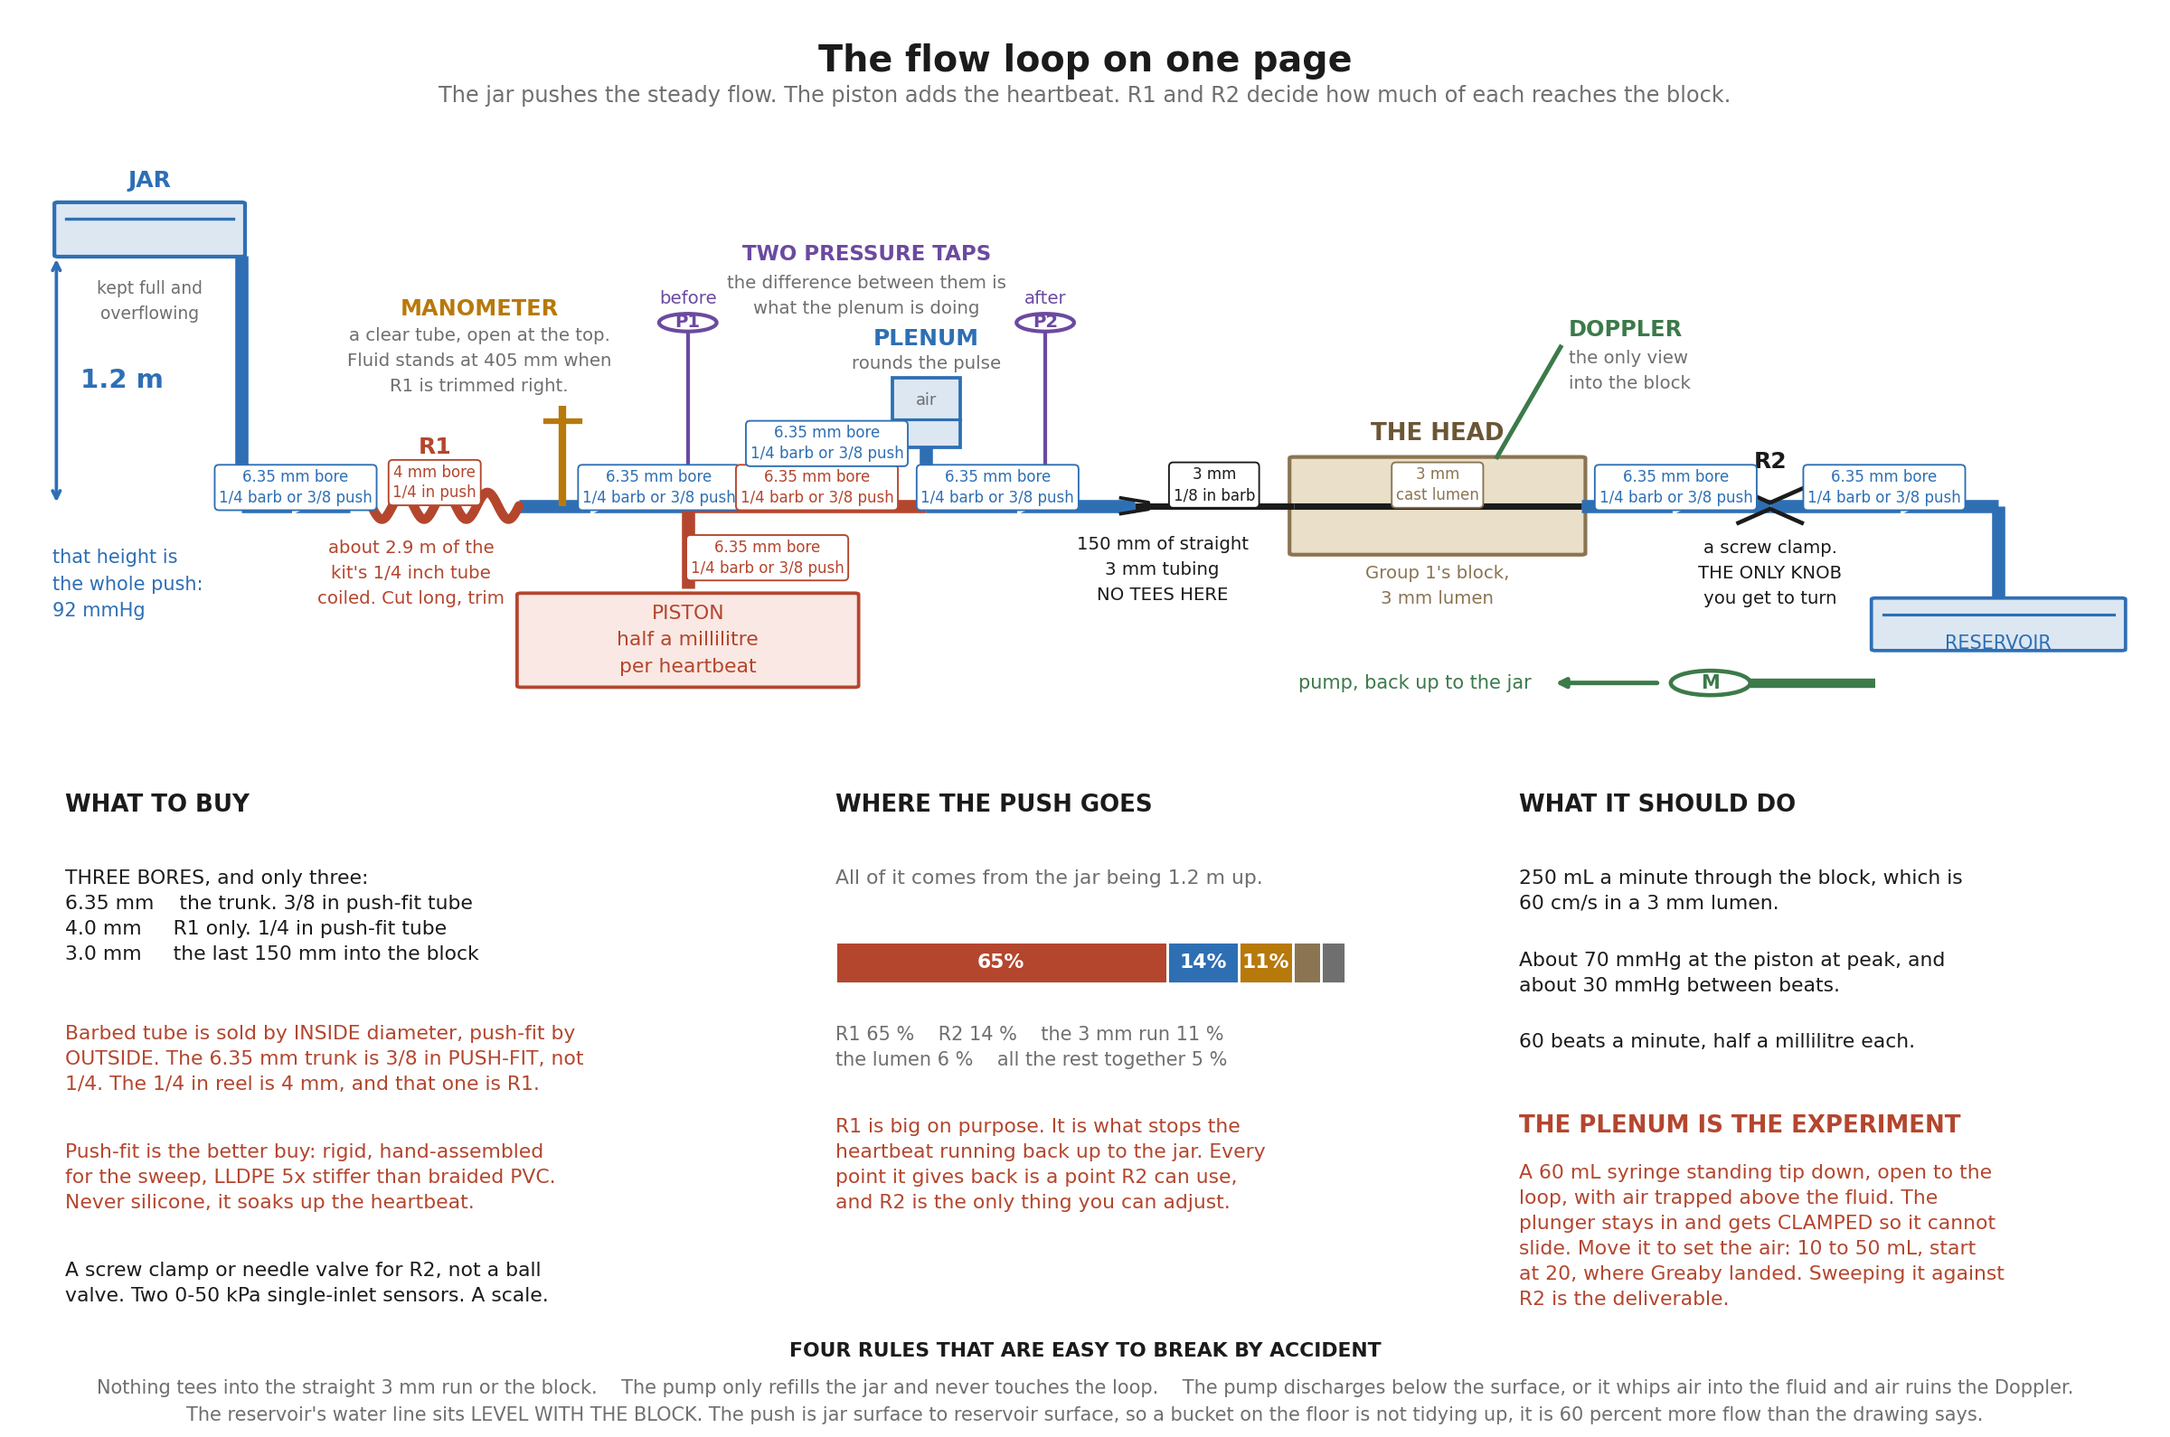
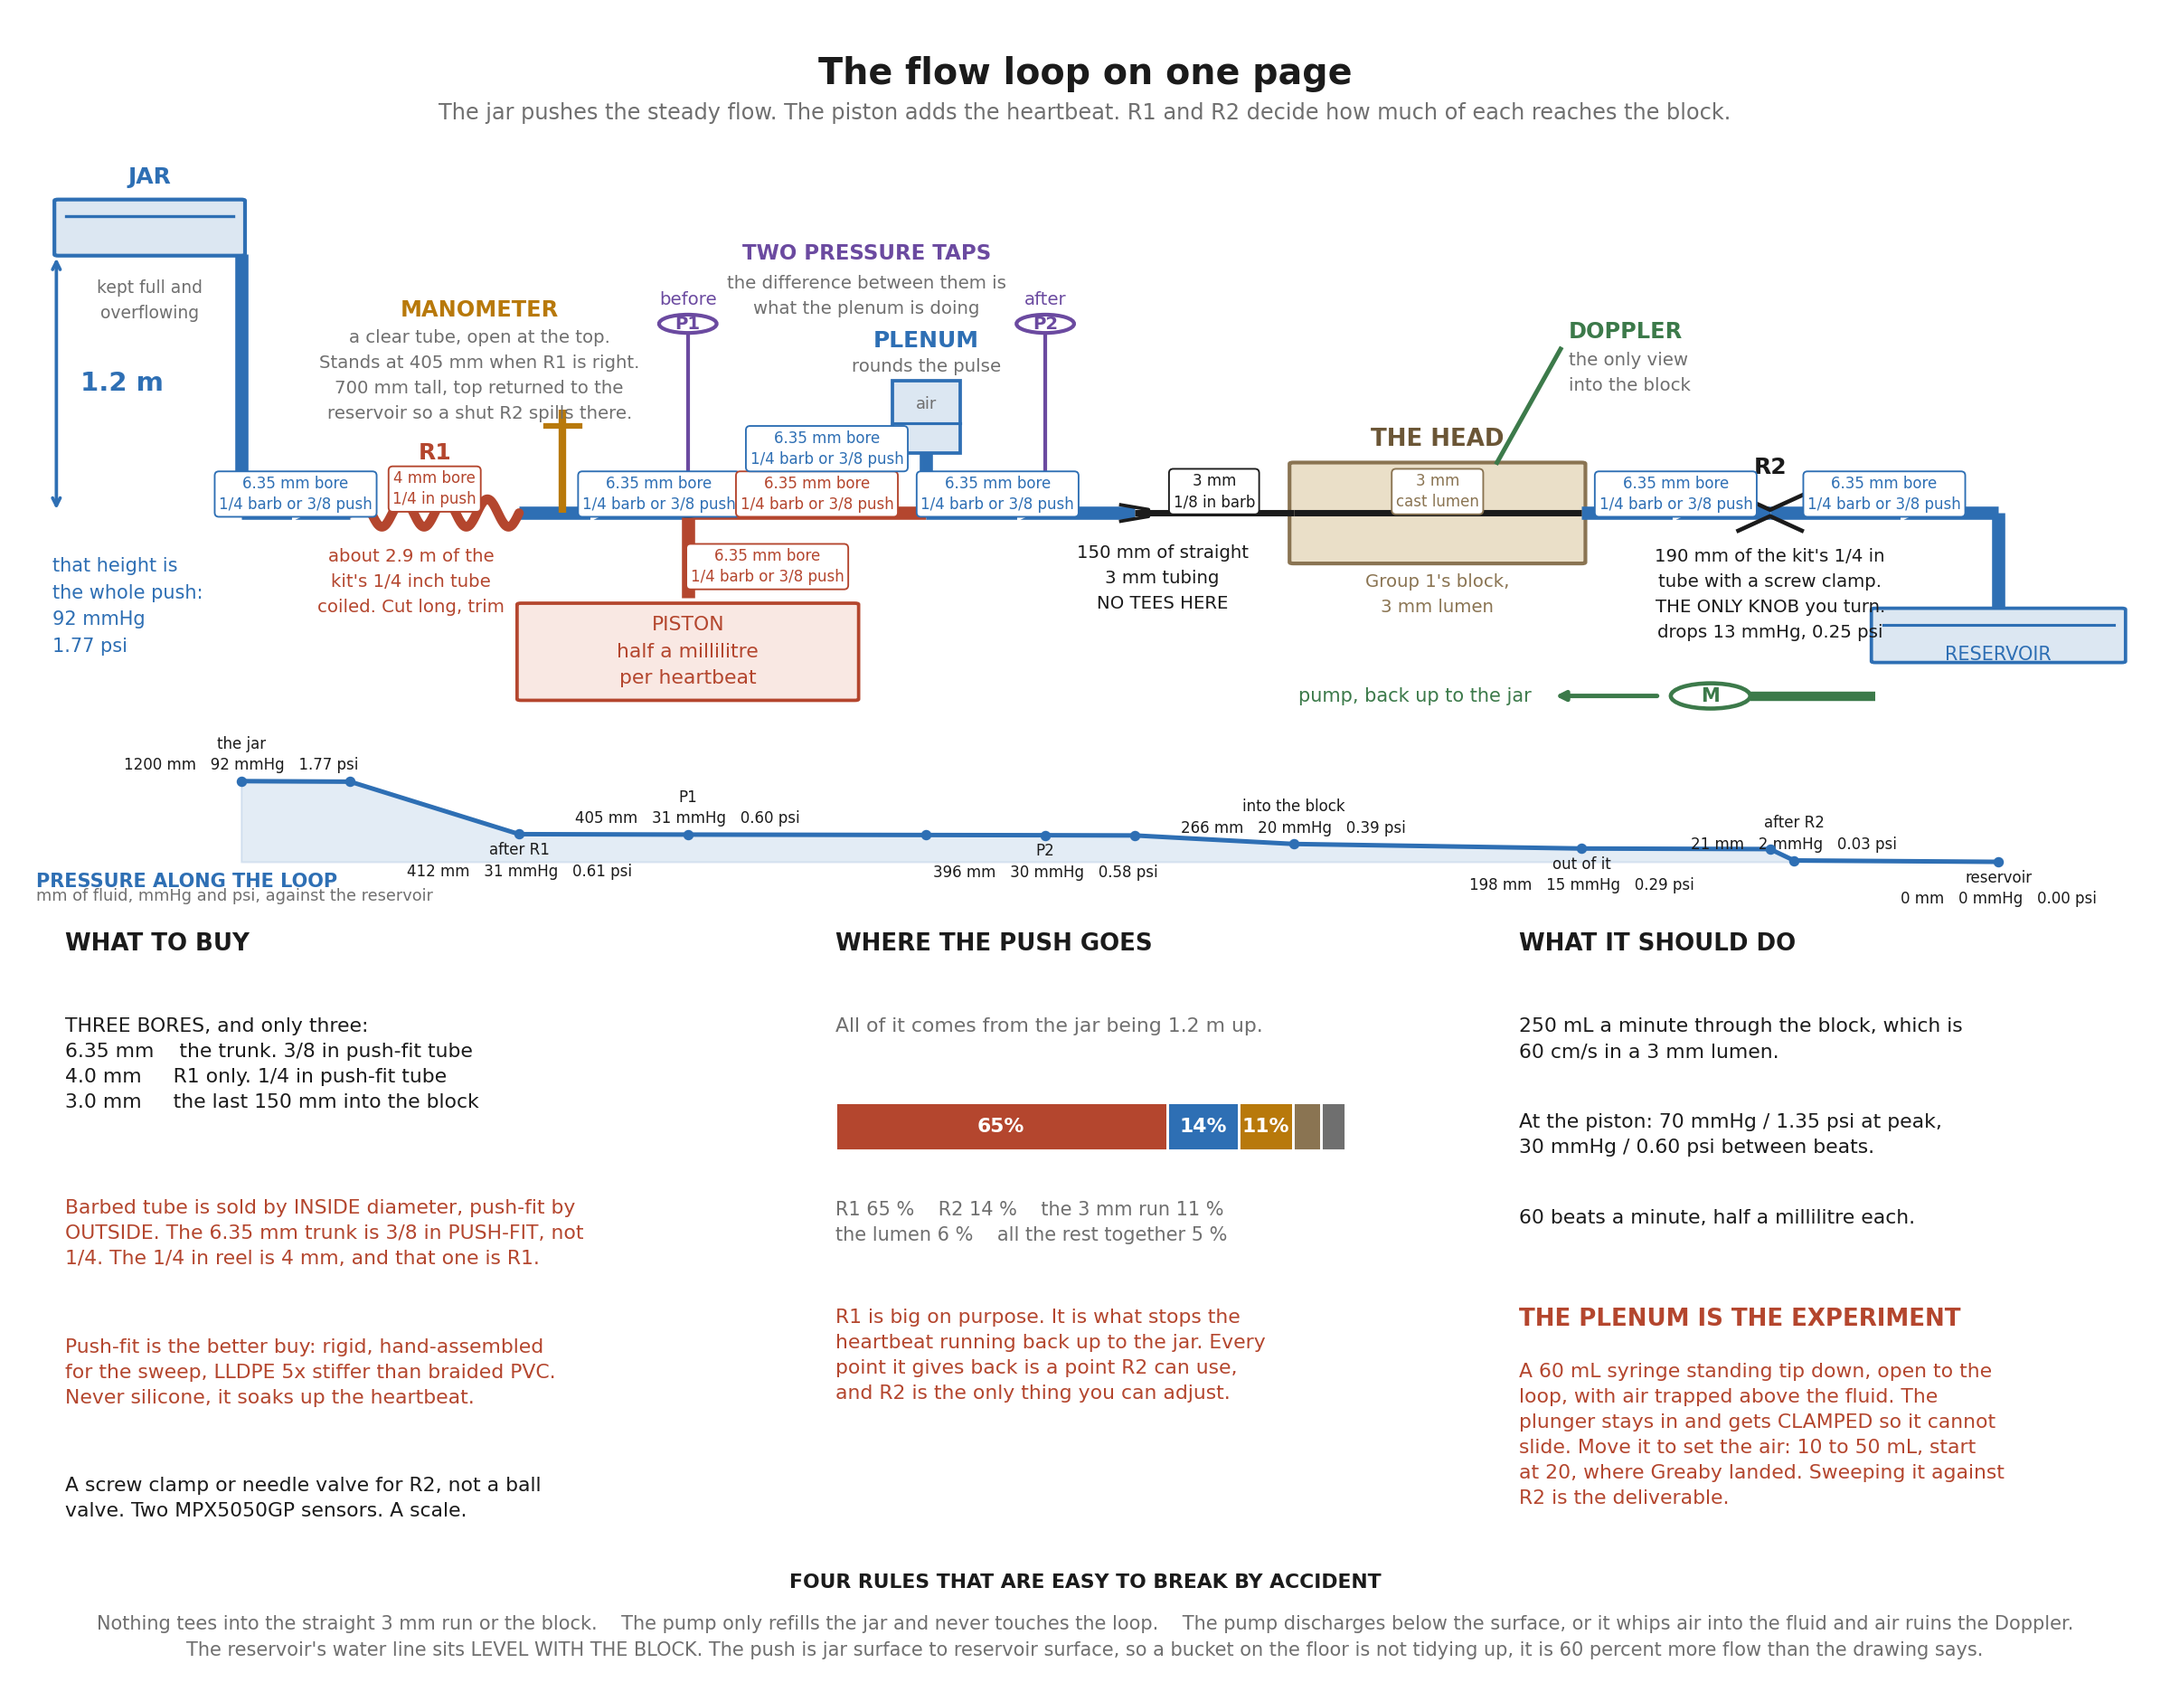
One pager: a pressure profile strip, every station in mmHg and psi
Adds a strip under the schematic plotting head against position, with every
station labelled in all three units at once. It goes on its own band rather
than on the pipe, because each run already carries a bore badge and a second
badge on the same line would make the drawing unreadable.

  the jar          1200 mm    92 mmHg   1.77 psi
  after R1          412 mm    31 mmHg   0.61 psi
  P1                405 mm    31 mmHg   0.60 psi
  P2                396 mm    30 mmHg   0.58 psi
  into the block    266 mm    20 mmHg   0.39 psi
  out of it         198 mm    15 mmHg   0.29 psi
  after R2           21 mm     2 mmHg   0.03 psi
  reservoir           0 mm     0 mmHg   0.00 psi

Seeing it drawn makes R1's share look like what it is: two thirds of the
whole fall happens in one piece of tubing before anything interesting has
happened yet.

Also brought up to date with everything decided since the last render. The
manometer is 700 mm with its top returned to the reservoir, not 1.3 m. R2 is
named as what it is made of, 190 mm of the kit's 1/4 in tube with a screw
clamp, and carries its own drop. The sensors are named MPX5050GP. The jar
carries psi beside mmHg, and so does the operating point.

Three label collisions fixed on the way: the strip heading landed on the
jar's own label, the manometer callout had grown to five lines and ran into
the bore badges, and one line of it had been duplicated by an earlier edit.

diff --git a/flow/one_pager.py b/flow/one_pager.py
@@ -65,9 +65,9 @@ def main():
     pulse_mm = 508.0            # from instrumentation.py's first-order estimate
     peak_mmhg = mmhg(mean_tee + pulse_mm)
 
-    fig = plt.figure(figsize=(16.0, 10.6), dpi=150)
+    fig = plt.figure(figsize=(16.0, 12.4), dpi=150)
     fig.patch.set_facecolor("white")
-    ax = fig.add_axes((0.015, 0.495, 0.970, 0.425))
+    ax = fig.add_axes((0.015, 0.560, 0.970, 0.375))
     ax.set_xlim(0, 10.6)
     ax.set_ylim(-3.6, 6.4)
     ax.axis("off")
@@ -123,7 +123,8 @@ def main():
     ax.annotate("", xy=(0.12, 0.0), xytext=(0.12, 4.10),
                 arrowprops=dict(arrowstyle="<->", color=COOL, lw=1.8))
     lab(0.24, 2.05, "1.2 m", COOL, 14, ha="left", va="center", weight="bold")
-    lab(0.10, -0.70, "that height is\nthe whole push:\n%.0f mmHg" % mmhg(TANK),
+    lab(0.10, -0.70, "that height is\nthe whole push:\n%.0f mmHg\n%.2f psi"
+        % (mmhg(TANK), H.RHO * H.G * TANK * 1e-3 / 6894.757),
         COOL, 10, ha="left", va="top")
     pipe(X_DROP, X_R1A)
     # No badge on the vertical drop: the horizontal run right below it
@@ -154,8 +155,10 @@ def main():
     lab(X_MANO - 0.42, 3.05, "MANOMETER", GOLD, 11.5, weight="bold")
     lab(X_MANO - 0.42, 2.92,
         "a clear tube, open at the top.\n"
-        "Fluid stands at 405 mm when\n"
-        "R1 is trimmed right.", MUTE, 9.5, va="top")
+        "Stands at 405 mm when R1 is right.\n"
+        "700 mm tall, top returned to the\n"
+        "reservoir so a shut R2 spills there.",
+        MUTE, 9.5, va="top")
     bore((X_R1B + X_P1) / 2 + 0.28, 0.30, QTR, COOL)
     vpipe(X_P1, -1.35, 0.0, col=HOT)
     bore(X_P1 + 0.40, -0.85, QTR, HOT)
@@ -233,7 +236,8 @@ def main():
     ax.plot([X_R2 - 0.16, X_R2, X_R2 + 0.16], [-0.28, -0.05, -0.28],
             color=INK, lw=2.2, zorder=6)
     lab(X_R2, 0.55, "R2", INK, 12, weight="bold")
-    lab(X_R2, -0.55, "a screw clamp.\nTHE ONLY KNOB\nyou get to turn",
+    lab(X_R2, -0.55, "190 mm of the kit's 1/4 in\ntube with a screw clamp.\n"
+        "THE ONLY KNOB you turn.\ndrops 13 mmHg, 0.25 psi",
         INK, 9.5, va="top")
 
     # ------------------------------------------------- reservoir and pump
@@ -260,6 +264,52 @@ def main():
     for x in (1.35, 2.85, 5.00, 8.30, 9.45):
         ax.plot([x], [0.0], marker=">", ms=8, color="white", zorder=9,
                 markeredgecolor="white")
+
+    # ------------------------------------------------- the pressure profile
+    # Every station labelled in both units, on its own strip rather than on
+    # the pipe. The runs already carry a bore badge each and a second badge
+    # on the same line would make the drawing unreadable.
+    pp = fig.add_axes((0.015, 0.462, 0.970, 0.088), sharex=ax)
+    STATIONS = [
+        (X_DROP, 1200.0, "the jar"),
+        (X_R1A, 1191.6, ""),
+        (X_R1B, 411.6, "after R1"),
+        (X_P1, 405.3, "P1"),
+        (X_PLEN, 399.0, ""),
+        (X_P2, 396.0, "P2"),
+        (X_RED, 392.6, ""),
+        (X_IN, 265.9, "into the block"),
+        (X_OUT, 198.3, "out of it"),
+        (X_R2, 189.9, ""),
+        (X_R2 + 0.12, 21.0, "after R2"),
+        (X_RES, 0.0, "reservoir"),
+    ]
+    xs = [s[0] for s in STATIONS]
+    ys = [s[1] for s in STATIONS]
+    pp.fill_between(xs, 0, ys, color="#2e6fb4", alpha=0.13)
+    pp.plot(xs, ys, color=COOL, lw=2.4, solid_capstyle="round")
+    for x, y, lab in STATIONS:
+        pp.plot([x], [y], "o", ms=4.5, color=COOL, zorder=6)
+        if not lab:
+            continue
+        pa = y * 1e-3 * 1037.0 * 9.80665
+        up = lab in ("the jar", "P1", "into the block", "after R2")
+        pp.text(x, y + (115 if up else -115),
+                "%s\n%.0f mm   %.0f mmHg   %.2f psi"
+                % (lab, y, pa / 133.322, pa / 6894.757),
+                ha="center", va="bottom" if up else "top", fontsize=8.0,
+                color=INK, linespacing=1.4)
+    pp.set_ylim(-640, 1560)
+    pp.set_yticks([])
+    pp.set_xticks([])
+    for sp in ("top", "right", "bottom", "left"):
+        pp.spines[sp].set_visible(False)
+    # Heading below the curve on the left, where the profile has already
+    # fallen away. At the top it landed on the jar's own label.
+    pp.text(0.02, -300, "PRESSURE ALONG THE LOOP", fontsize=10,
+            color=COOL, fontweight="bold", va="center")
+    pp.text(0.02, -510, "mm of fluid, mmHg and psi, against the reservoir",
+            fontsize=8.5, color=MUTE, va="center")
 
     fig.text(0.5, 0.950,
              "The flow loop on one page", fontsize=19, ha="center",
@@ -301,7 +351,7 @@ def main():
          "for the sweep, LLDPE 5x stiffer than braided PVC.\n"
          "Never silicone, it soaks up the heartbeat.", HOT),
         ("A screw clamp or needle valve for R2, not a ball\n"
-         "valve. Two 0-50 kPa single-inlet sensors. A scale.", INK),
+         "valve. Two MPX5050GP sensors. A scale.", INK),
     ])
 
     panel(0.385, "WHERE THE PUSH GOES", [
@@ -337,8 +387,8 @@ def main():
     panel(0.700, "WHAT IT SHOULD DO", [
         ("250 mL a minute through the block, which is\n"
          "60 cm/s in a 3 mm lumen.", INK),
-        ("About 70 mmHg at the piston at peak, and\n"
-         "about 30 mmHg between beats.", INK),
+        ("At the piston: 70 mmHg / 1.35 psi at peak,\n"
+         "30 mmHg / 0.60 psi between beats.", INK),
         ("60 beats a minute, half a millilitre each.", INK),
     ])
     fig.text(0.700, 0.212, "THE PLENUM IS THE EXPERIMENT", fontsize=12.5,
